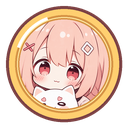
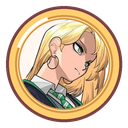
Use the blonde mascot throughout Malfoy Bot branding
Replace the banner, avatar, card character, and branded emoji artwork using the supplied reference. Add emerald and gold styling and deterministic asset rebuilds. Version manual mascot emoji uploads by content while keeping startup uploads disabled.

diff --git a/script/make_assets.py b/script/make_assets.py
@@ -1,3 +1,4 @@
+import argparse
 import json
 import math
 from pathlib import Path
@@ -7,8 +8,8 @@ from PIL import Image, ImageDraw, ImageFilter, ImageFont
 ROOT = Path(__file__).resolve().parent.parent
 ASSETS = ROOT / "assets"
 EMOJIS = ASSETS / "emojis"
-FONT_BOLD = "/usr/share/fonts/truetype/google-fonts/Poppins-Bold.ttf"
-FONT_MED = "/usr/share/fonts/truetype/google-fonts/Poppins-Medium.ttf"
+FONT_BOLD = str(ROOT / "fonts" / "Poppins-Bold.ttf")
+FONT_MED = str(ROOT / "fonts" / "Poppins-Medium.ttf")
 
 INK = (122, 64, 66, 255)
 PINK = (255, 176, 160, 255)
@@ -88,19 +89,28 @@ def centered_text(d, text, cx, cy, size, fill=INK, path=FONT_BOLD):
 CHARACTER = ASSETS / "character.png"
 
 
-def character_crop(box, size):
+def character_portrait(size):
     art = Image.open(CHARACTER).convert("RGBA")
-    return art.crop(box).resize((size, size), Image.LANCZOS)
+    # Frame the blonde mascot's head from the canonical transparent cutout.
+    side = round(art.width * 0.84)
+    return art.crop((art.width - side, 0, art.width, side)).resize((size, size), Image.LANCZOS)
+
+
+def make_avatar():
+    size = 512
+    avatar = Image.new("RGBA", (size, size), (20, 48, 38, 255))
+    d = ImageDraw.Draw(avatar)
+    d.ellipse((18, 18, 494, 494), fill=(32, 76, 55, 255), outline=GOLD, width=8)
+    portrait = character_portrait(424)
+    mask = Image.new("L", portrait.size, 0)
+    ImageDraw.Draw(mask).ellipse((0, 0, 423, 423), fill=255)
+    mask = Image.composite(portrait.getchannel("A"), Image.new("L", portrait.size), mask)
+    avatar.paste(portrait, (44, 44), mask)
+    avatar.save(ASSETS / "avatar.png")
 
 
 def e_logo():
-    art = Image.open(CHARACTER).convert("RGBA")
-    bbox = art.getbbox()
-    art = art.crop(bbox)
-    side = max(art.size)
-    sq = Image.new("RGBA", (side, side), (0, 0, 0, 0))
-    sq.paste(art, ((side - art.width) // 2, (side - art.height) // 2), art)
-    sq.resize((128, 128), Image.LANCZOS).save(EMOJIS / "logo.png")
+    character_portrait(128).save(EMOJIS / "logo.png")
 
 
 def e_coin():
@@ -109,7 +119,7 @@ def e_coin():
     circle(d, 64, 64, 58, GOLD, INK, 6)
     circle(d, 64, 64, 49, (255, 232, 160, 255), GOLD_D, 4)
     inner = 46
-    face = character_crop((170, 140, 1090, 1060), p(inner * 2))
+    face = character_portrait(p(inner * 2))
     mask = Image.new("L", (p(inner * 2), p(inner * 2)), 0)
     ImageDraw.Draw(mask).ellipse([0, 0, p(inner * 2) - 1, p(inner * 2) - 1], fill=255)
     back = Image.new("RGBA", (p(inner * 2), p(inner * 2)), CREAM)
@@ -447,5 +457,14 @@ def make_emojis():
 
 
 if __name__ == "__main__":
+    parser = argparse.ArgumentParser(description="Render bot artwork and emojis.")
+    parser.add_argument("--brand-only", action="store_true", help="Render the avatar, logo and mascot coin only.")
+    args = parser.parse_args()
     ASSETS.mkdir(exist_ok=True)
-    make_emojis()
+    EMOJIS.mkdir(exist_ok=True)
+    make_avatar()
+    if args.brand_only:
+        e_logo()
+        e_coin()
+    else:
+        make_emojis()

diff --git a/tests/test_emojis.py b/tests/test_emojis.py
@@ -1,0 +1,62 @@
+import hashlib
+import json
+import tempfile
+import unittest
+from pathlib import Path
+from unittest.mock import AsyncMock, MagicMock, patch
+
+import config
+from core import emojis
+
+
+class EmojiSyncTests(unittest.IsolatedAsyncioTestCase):
+    async def test_manual_sync_versions_new_mascot_art_and_reuses_uploads(self):
+        with tempfile.TemporaryDirectory() as directory:
+            root = Path(directory)
+            manifest = {"LOGO": "logo.png", "COIN": "coin.png", "BANK": "bank.png"}
+            manifest_path = root / "emojis.json"
+            manifest_path.write_text(json.dumps(manifest))
+            for filename in manifest.values():
+                (root / filename).write_bytes(filename.encode())
+            cache = root / "uploaded.json"
+            old = []
+            for index, key in enumerate(manifest, 1):
+                emoji = MagicMock(name=key)
+                emoji.name = f"{config.EMOJI_PREFIX}{key.lower()}"
+                emoji.__str__.return_value = f"<:{emoji.name}:{index}>"
+                old.append(emoji)
+            uploaded = []
+
+            async def create(*, name, image):
+                emoji = MagicMock()
+                emoji.name = name
+                emoji.__str__.return_value = f"<:{name}:{100 + len(uploaded)}>"
+                uploaded.append(emoji)
+                return emoji
+
+            client = MagicMock()
+            client.fetch_application_emojis = AsyncMock(side_effect=lambda: old + uploaded)
+            client.create_application_emoji = AsyncMock(side_effect=create)
+            with patch.object(emojis, "MANIFEST", manifest_path), patch.object(
+                emojis, "EMOJI_DIR", root
+            ), patch.object(emojis, "UPLOADED", cache), patch.object(
+                emojis.E, "_data", {}
+            ), patch("core.emojis.asyncio.sleep", new_callable=AsyncMock):
+                result = await emojis.sync_emojis(client)
+                self.assertEqual(client.create_application_emoji.await_count, 2)
+                for key, new_emoji in zip(("LOGO", "COIN"), uploaded):
+                    filename = manifest[key]
+                    digest = hashlib.sha256(filename.encode()).hexdigest()[:8]
+                    self.assertEqual(new_emoji.name, f"{config.EMOJI_PREFIX}{key.lower()}_{digest}")
+                    self.assertEqual(result[key], str(new_emoji))
+                    self.assertEqual(emojis.E(key), str(new_emoji))
+                self.assertEqual(result["BANK"], str(old[2]))
+                self.assertEqual(json.loads(cache.read_text()), result)
+                self.assertEqual(await emojis.sync_emojis(client), result)
+                self.assertEqual(client.create_application_emoji.await_count, 2)
+                for emoji in old:
+                    emoji.delete.assert_not_called()
+
+
+if __name__ == "__main__":
+    unittest.main()

diff --git a/script/make_banner.py b/script/make_banner.py
@@ -9,18 +9,28 @@ sys.path.insert(0, str(ROOT))
 from PIL import Image, ImageDraw
 
 import config
-from core.cards import background, character, font
+from core.cards import character, font
 
 
 def main():
-    banner = background(2048, 683)
-    art = character(650)
-    banner.alpha_composite(art, (2048 - art.width - 90, 33))
+    banner = Image.new("RGBA", (2048, 683), (16, 39, 31, 255))
     draw = ImageDraw.Draw(banner)
-    draw.rounded_rectangle((100, 150, 1080, 530), radius=48, fill=(255, 247, 240, 235))
-    draw.text((150, 185), "MALFOY", font=font("Bold", 142), fill=config.CARD_THEME["ink"])
-    draw.text((160, 355), "B O T", font=font("Bold", 46), fill=config.CARD_THEME["muted"])
-    draw.text((160, 445), config.TAGLINE, font=font("Medium", 32), fill=config.CARD_THEME["ink"])
+    gold = (237, 207, 129)
+    cream = (247, 244, 227)
+    draw.polygon(((1100, 0), (2048, 0), (2048, 683), (970, 683)), fill=(27, 62, 46))
+    draw.ellipse((1160, 20, 1880, 740), fill=(39, 82, 58), outline=gold, width=2)
+    draw.ellipse((1190, 50, 1850, 710), outline=(77, 111, 75), width=2)
+    draw.line((100, 106, 270, 106), fill=gold, width=4)
+    draw.text((100, 128), "ECONOMY / GAMES / ROLEPLAY", font=font("Medium", 24), fill=gold)
+    draw.text((92, 183), "MALFOY", font=font("Bold", 148), fill=cream)
+    draw.text((102, 362), "B O T", font=font("Bold", 50), fill=gold)
+    draw.text((102, 486), config.TAGLINE, font=font("Medium", 31), fill=cream)
+    draw.line((102, 566, 900, 566), fill=(77, 111, 75), width=2)
+    art = character(650)
+    banner.alpha_composite(art, (1320, 33))
+    draw = ImageDraw.Draw(banner)
+    for x, y, radius in ((1100, 164, 12), (1900, 480, 18), (1810, 110, 10)):
+        draw.polygon(((x, y - radius), (x + radius, y), (x, y + radius), (x - radius, y)), fill=gold)
     banner.convert("RGB").save(ROOT / "assets" / "banner.png")
 
 

diff --git a/core/emojis.py b/core/emojis.py
@@ -1,4 +1,5 @@
 import asyncio
+import hashlib
 import json
 import logging
 from pathlib import Path
@@ -13,6 +14,7 @@ ROOT = Path(__file__).resolve().parent.parent
 MANIFEST = ROOT / "emojis.json"
 UPLOADED = ROOT / "emojis_uploaded.json"
 EMOJI_DIR = ROOT / "assets" / "emojis"
+BRANDED_KEYS = {"LOGO", "COIN"}
 
 
 class EmojiMap:
@@ -64,16 +66,23 @@ async def sync_emojis(client):
     result = {}
     for key, filename in manifest.items():
         name = f"{config.EMOJI_PREFIX}{key.lower()}"
+        path = EMOJI_DIR / filename
+        if key in BRANDED_KEYS:
+            if not path.exists():
+                log.warning("Missing emoji file %s", path)
+                continue
+            # Discord cannot replace emoji images in place. Version mascot names
+            # by content so manual sync refreshes the cache and reuses each upload.
+            name += f"_{hashlib.sha256(path.read_bytes()).hexdigest()[:8]}"
         emoji = existing.get(name)
         if emoji is None:
-            path = EMOJI_DIR / filename
             if not path.exists():
                 log.warning("Missing emoji file %s", path)
                 continue
             try:
                 emoji = await client.create_application_emoji(name=name, image=path.read_bytes())
             except discord.HTTPException as exc:
-                log.warning("Could not upload %s: %s", name, exc)
+                log.warning("Could not synchronize %s: %s", name, exc)
                 continue
             await asyncio.sleep(0.6)
         result[key] = str(emoji)

diff --git a/config.py b/config.py
@@ -26,7 +26,7 @@ DATABASE_PATH = "data/lunii.db"
 SYNC_SLASH_ON_START = True
 PRESENCE_TEXT = "{prefix}help | Malfoy Bot"
 
-ACCENT = 0xFFD9C9
+ACCENT = 0x29674F
 ACCENT_OK = 0xA8E6C9
 ACCENT_ERR = 0xFF8FA3
 ACCENT_WARN = 0xFFD98A
@@ -118,12 +118,12 @@ EXTENSIONS = [
 FONT_DIR = "fonts"
 CARDS_ENABLED = True
 CARD_THEME = {
-    "bg_top": (255, 240, 231),
-    "bg_bottom": (255, 214, 203),
+    "bg_top": (242, 245, 232),
+    "bg_bottom": (208, 226, 211),
     "surface": (255, 255, 255),
-    "ink": (122, 64, 66),
-    "muted": (178, 128, 124),
-    "accent": (255, 166, 150),
-    "accent_soft": (255, 226, 216),
-    "track": (248, 218, 209),
+    "ink": (25, 54, 43),
+    "muted": (83, 111, 94),
+    "accent": (41, 103, 79),
+    "accent_soft": (246, 229, 175),
+    "track": (214, 228, 214),
 }

diff --git a/README.md b/README.md
@@ -101,6 +101,9 @@ python main.py
 Startup does not upload or synchronize custom emojis. The bot works with text labels
 when no custom emojis are configured. To upload them manually, an owner can run
 `memojisync` (or `<your-prefix>emojisync`) or `python script/emoji_uploader.py`.
+Manual sync uploads new logo and coin artwork with versioned names and updates
+the local emoji cache. Repeating sync reuses those uploads. Older emojis remain
+available so existing messages keep displaying them.
 
 </td>
 </tr>
@@ -117,6 +120,21 @@ Sets the bot username to Malfoy Bot and applies the avatar and banner.
 </td>
 </tr>
 </table>
+
+## Brand assets
+
+The blonde girl from the supplied reference is Malfoy Bot's mascot. The banner,
+avatar, logo and coin emojis, and profile/rank/wallet cards use this artwork with
+an emerald and gold theme. `assets/character.png` is the canonical transparent
+cutout; `assets/avatar.png` and `assets/banner.png` are ready to apply with the
+optional profile script above.
+
+To rebuild the branded assets locally:
+
+```bash
+python script/make_assets.py --brand-only
+python script/make_banner.py
+```
 
 ## Configuration
 
@@ -159,7 +177,8 @@ originally developed by **FX Development / r3novadcl**. This fork is independent
 and is not an official FX Development release or endorsed by the original authors.
 
 Changes in this fork: Malfoy Bot branding, presence and shop title; a rebranded
-banner and profile username; and automatic emoji uploads removed from startup.
+banner and profile username; blonde mascot artwork, avatar and branded emojis;
+an emerald and gold card theme; and automatic emoji uploads removed from startup.
 Original author attribution is retained here and in the unchanged [LICENSE](LICENSE).
 
 The database filename remains `data/lunii.db` to preserve existing player data.
